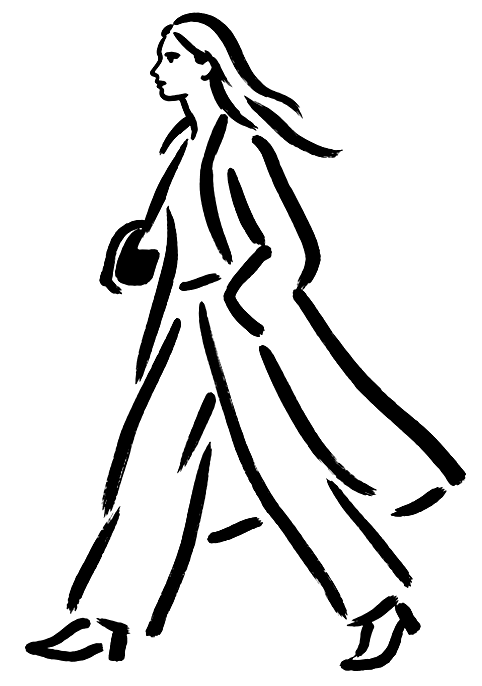
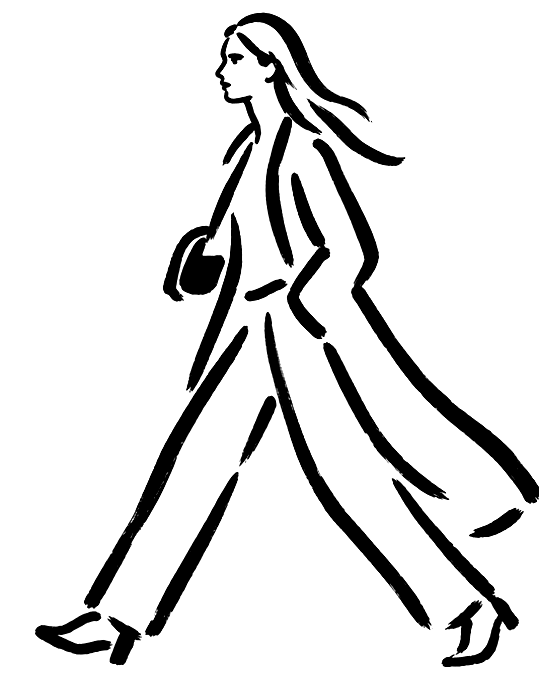
LATITUDE lab: four clearly different walk phases (contact, down, passing, reach)

Changed region(s): [[0.0311, 0.0, 1.0, 0.9825]]

diff --git a/app/[locale]/latitude/lab/draw-walk/page.tsx b/app/[locale]/latitude/lab/draw-walk/page.tsx
@@ -5,8 +5,8 @@ import { DrawWalk } from '@/components/latitude/DrawWalk';
 export const metadata: Metadata = { title: 'LATITUDE lab', robots: { index: false, follow: false } };
 
 export default function DrawWalkLab() {
-  // 地図のページ（1080×1440）の上の、歩く絵の場所（x600 y640、高さ587。絵は 491×686 の比）
-  const h = 587, w = Math.round((587 * 491) / 686);
+  // 地図のページ（1080×1440）の上の、歩く絵の場所（x600 y640、高さ587。絵は 550×684 の比）
+  const h = 587, w = Math.round((587 * 550) / 684); // 4コマの枠 550×684
   return (
     <div className="flex min-h-screen items-center justify-center p-4" style={{ background: '#0c0c0b' }}>
       <div className="relative" style={{ aspectRatio: '3 / 4', width: 'min(100vw - 2rem, 75svh)' }}>
